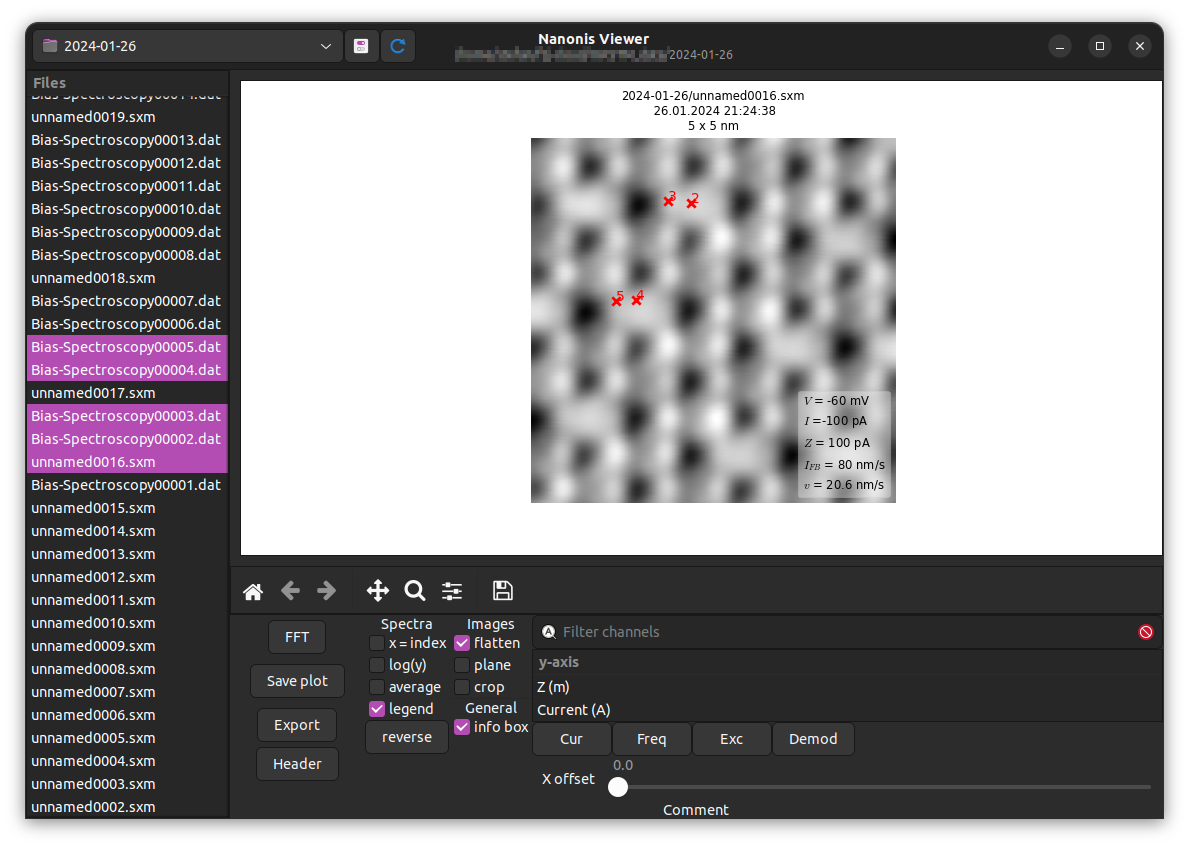
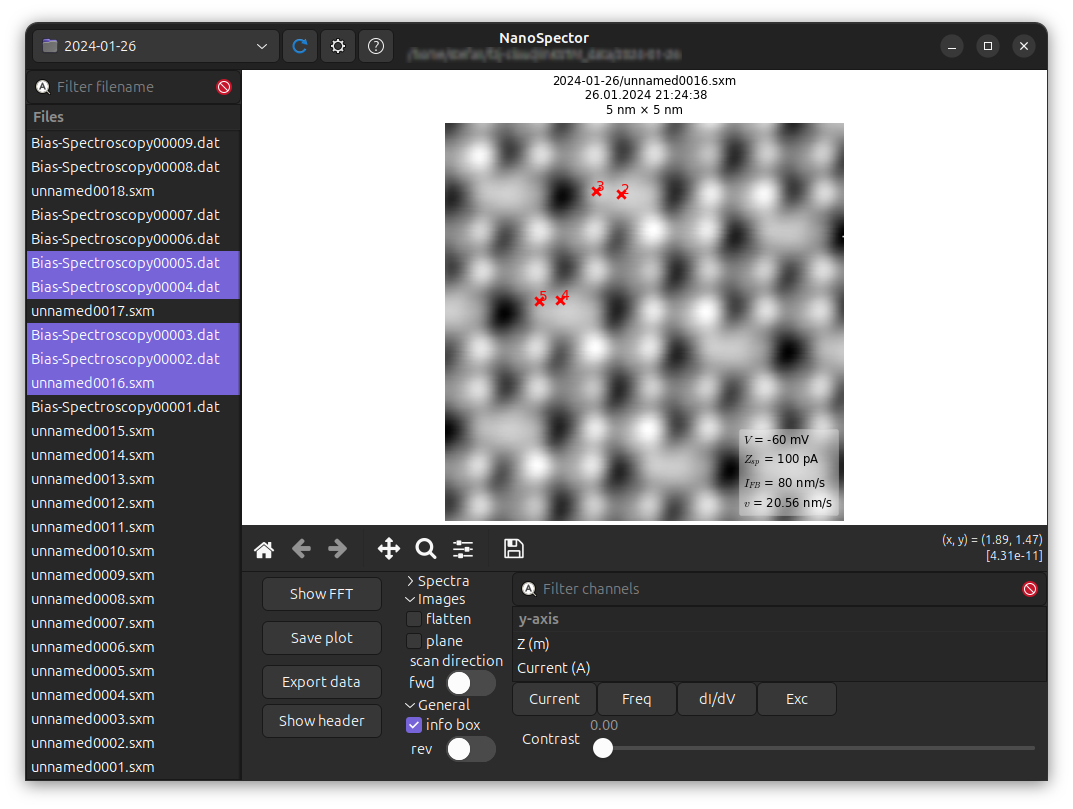
updated readme

Changed region(s): [[0.0, 0.0309, 0.9842, 0.9889]]

diff --git a/README.md b/README.md
@@ -1,6 +1,6 @@
 # NanoSpector
 
-Welcome to NanoSpector a small program that allows you to quickly view images and spectra saved by [SPECS Nanonis software](https://www.specs-group.com/nanonis/). NanoSpector works best if you save your files in one directory, that you can select to browse all viewable files. 
+Welcome to NanoSpector a small program that allows you to quickly view images and spectra saved by [SPECS Nanonis software](https://www.specs-group.com/nanonis/) or [Createc STM/AFM software](https://www.createc.de/index.php?index=1&menuid=30&lng=de&id=86). NanoSpector works best if you save your files in one directory, that you can select to browse all viewable files. 
 
 ## Screenshots
  
@@ -41,4 +41,4 @@ The file extensions NanoSpector is looking for, the default channels and colorma
 If you have problems with NanoSpector or find a bug you can message me.
 Is NanoSpector working for you and helping you in your research? Drop a message, too!
 
-_"Nanonis" is a trademark of SPECS Surface Nano Analysis GmbH. NanoSpector is an independent project and is not affiliated with or endorsed by the owner of the Nanonis trademark._
+_"Createc" is trademark of CreaTec Fischer & Co. GmbH. "Nanonis" is a trademark of SPECS Surface Nano Analysis GmbH. NanoSpector is an independent project and is not affiliated with or endorsed by the owners of these trademarks._
